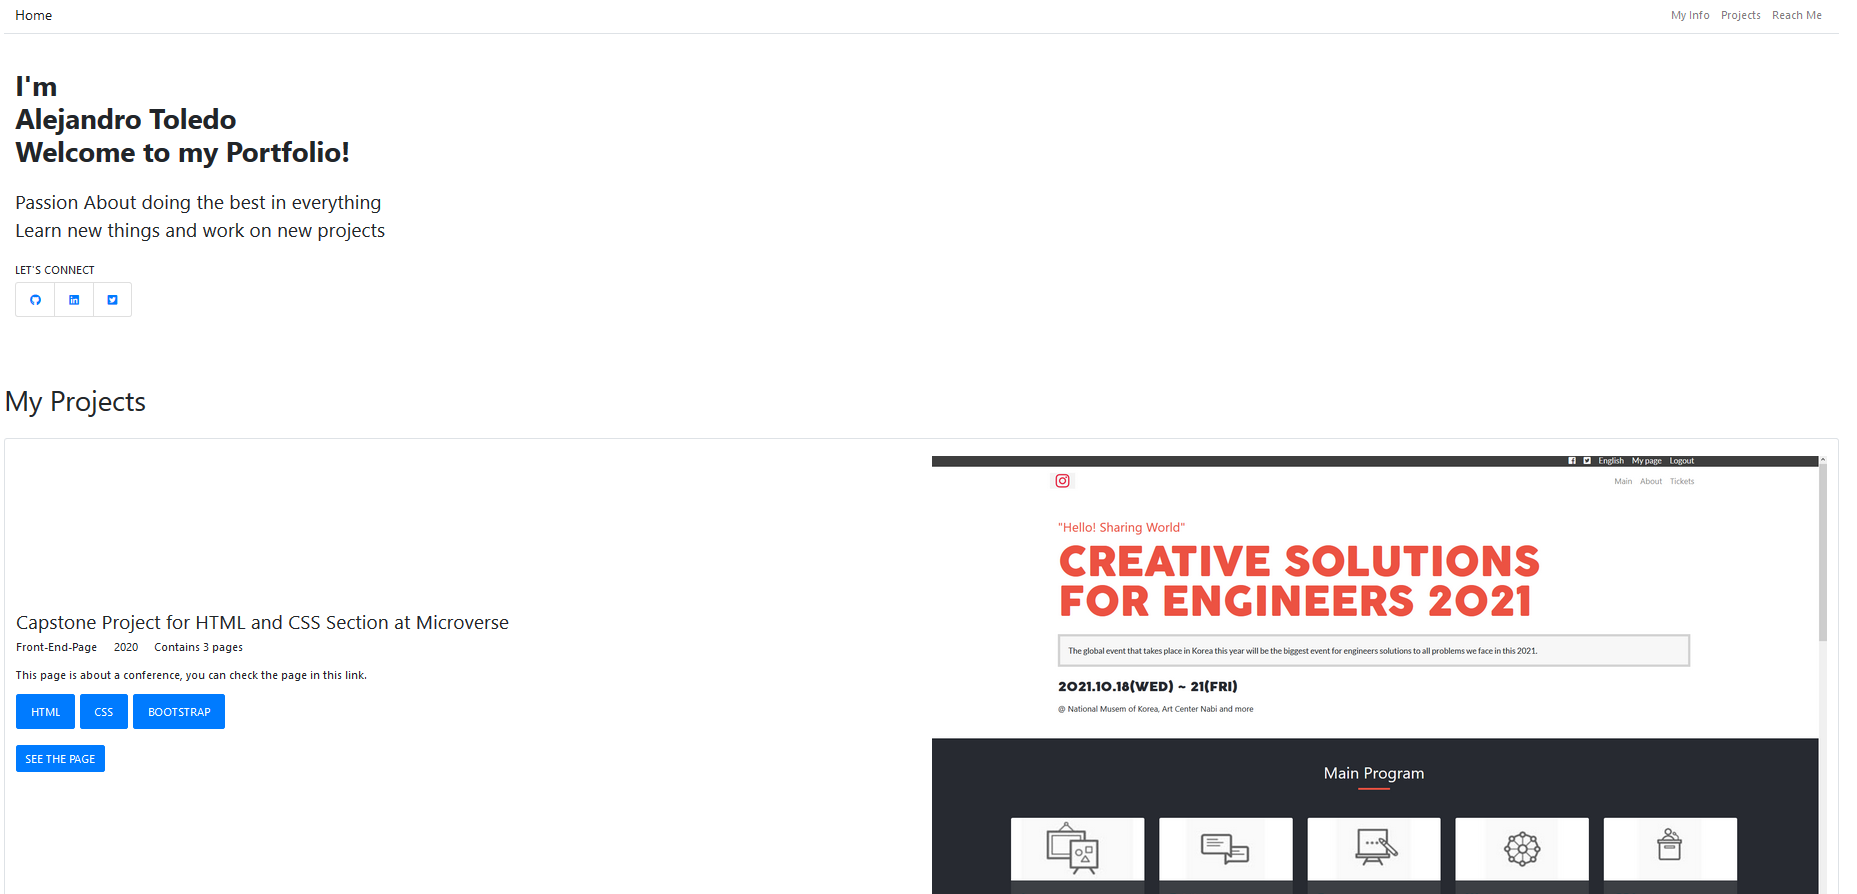
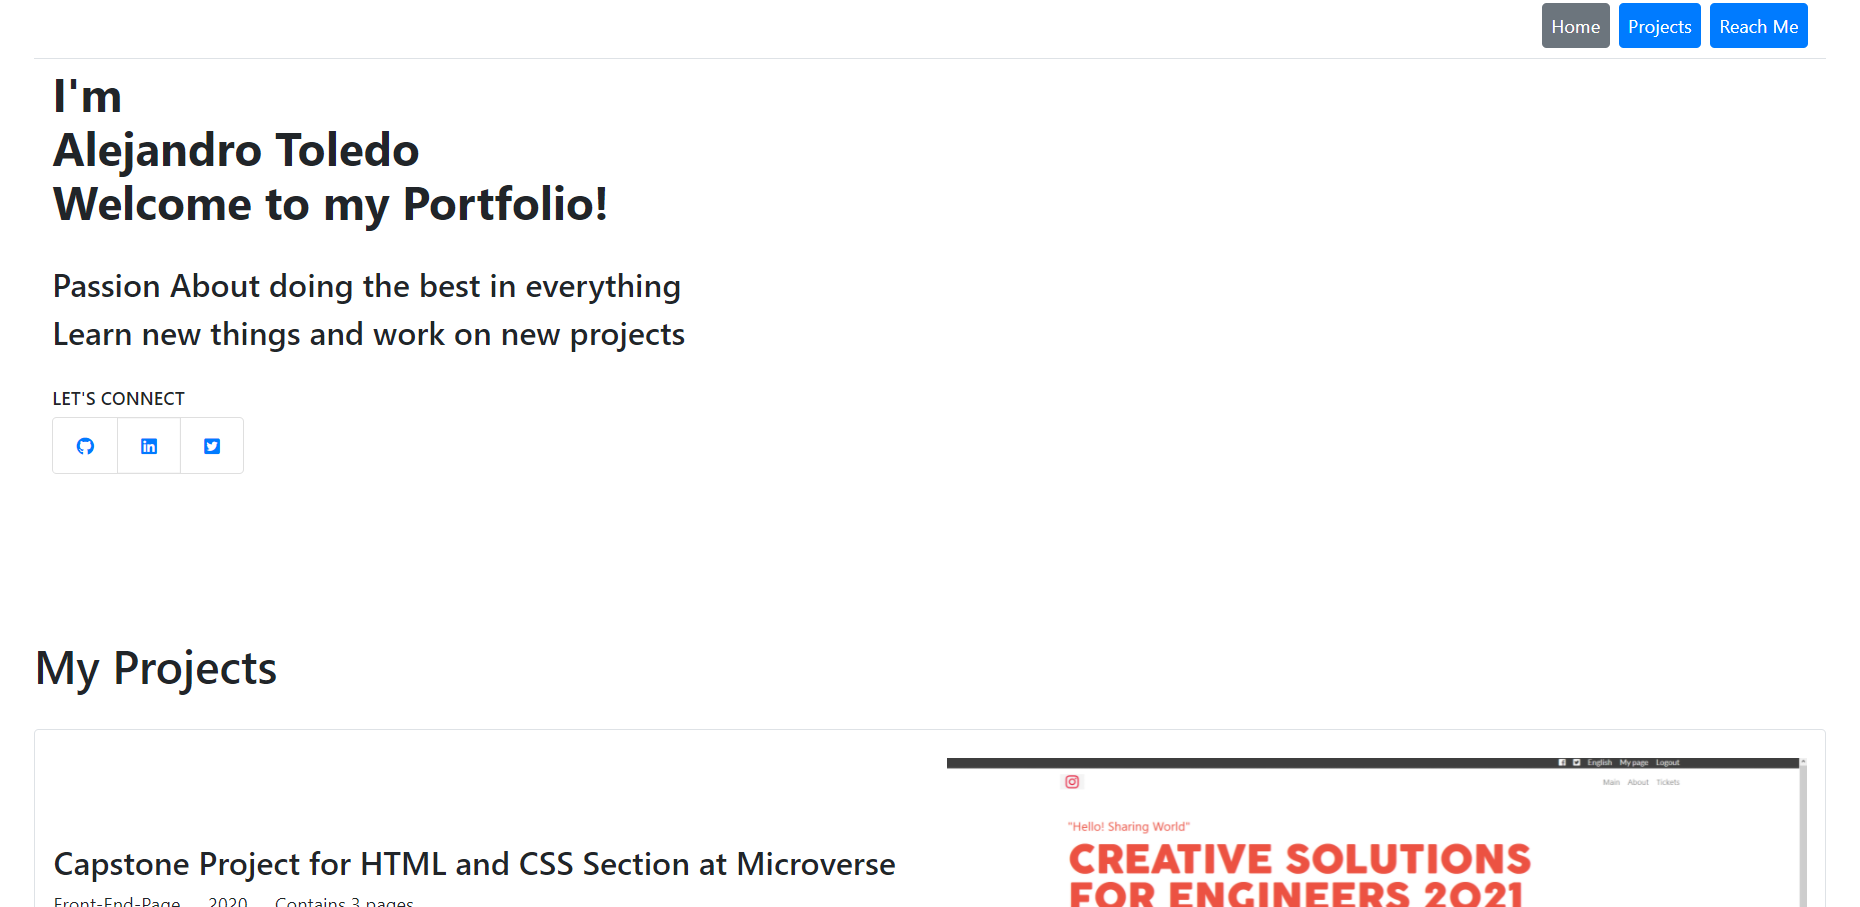
add new live demo link and change the screenshot

diff --git a/README.md b/README.md
@@ -10,7 +10,7 @@ Some of them I built during the time I was studying at Microverse School and oth
 
 ## Visit my portfolio 
 
-[Click on this link to visit my portfolio](https://rawcdn.githack.com/alejandrotoledoweb/Portfolio-template-1/6cb114f592373e37175ecc86aceb3f8e32bc1579/index.html)
+[Click on this link to visit my portfolio](https://alejandrotoledoweb.github.io/Portfolio-template-1/#reach-me)
 
 ## Languages
 
